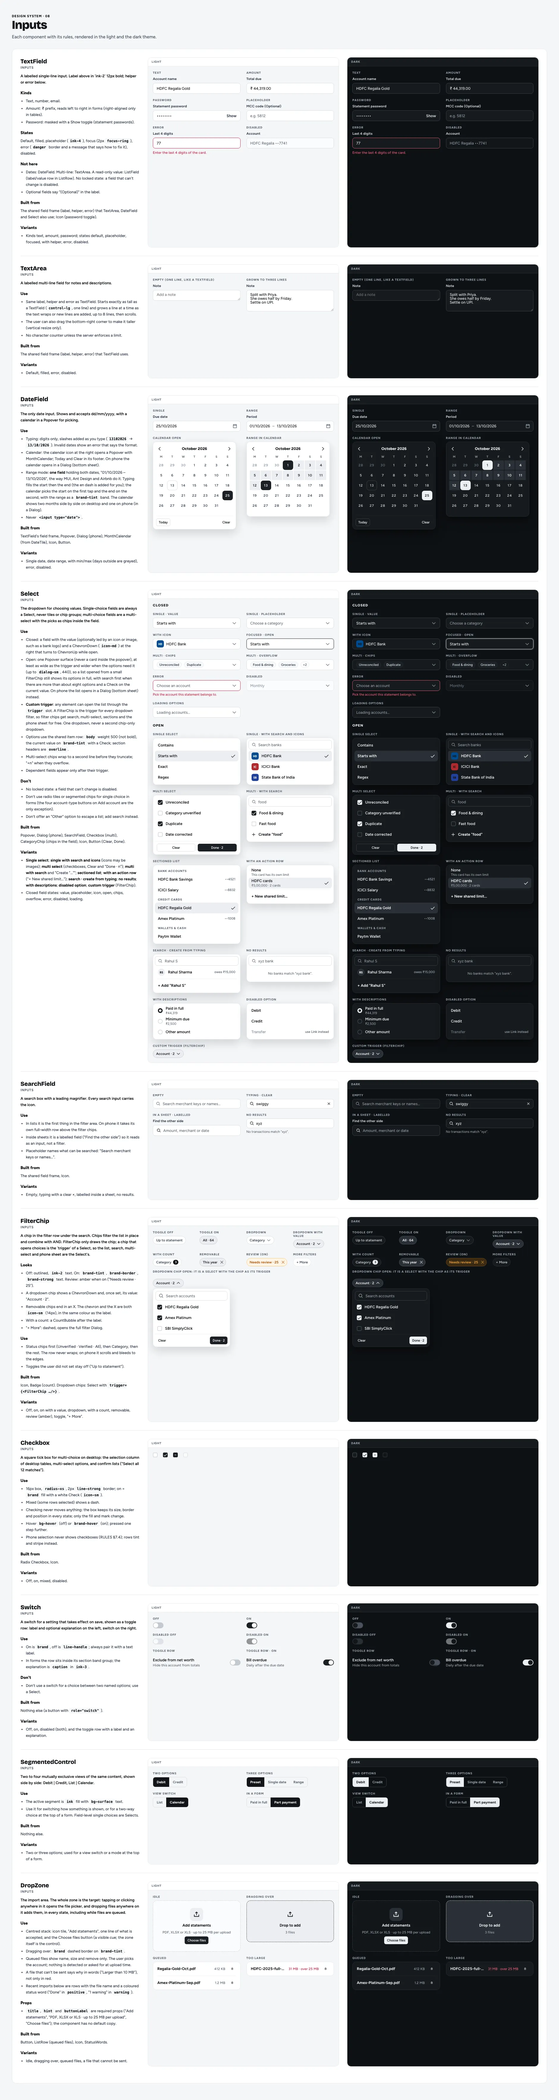
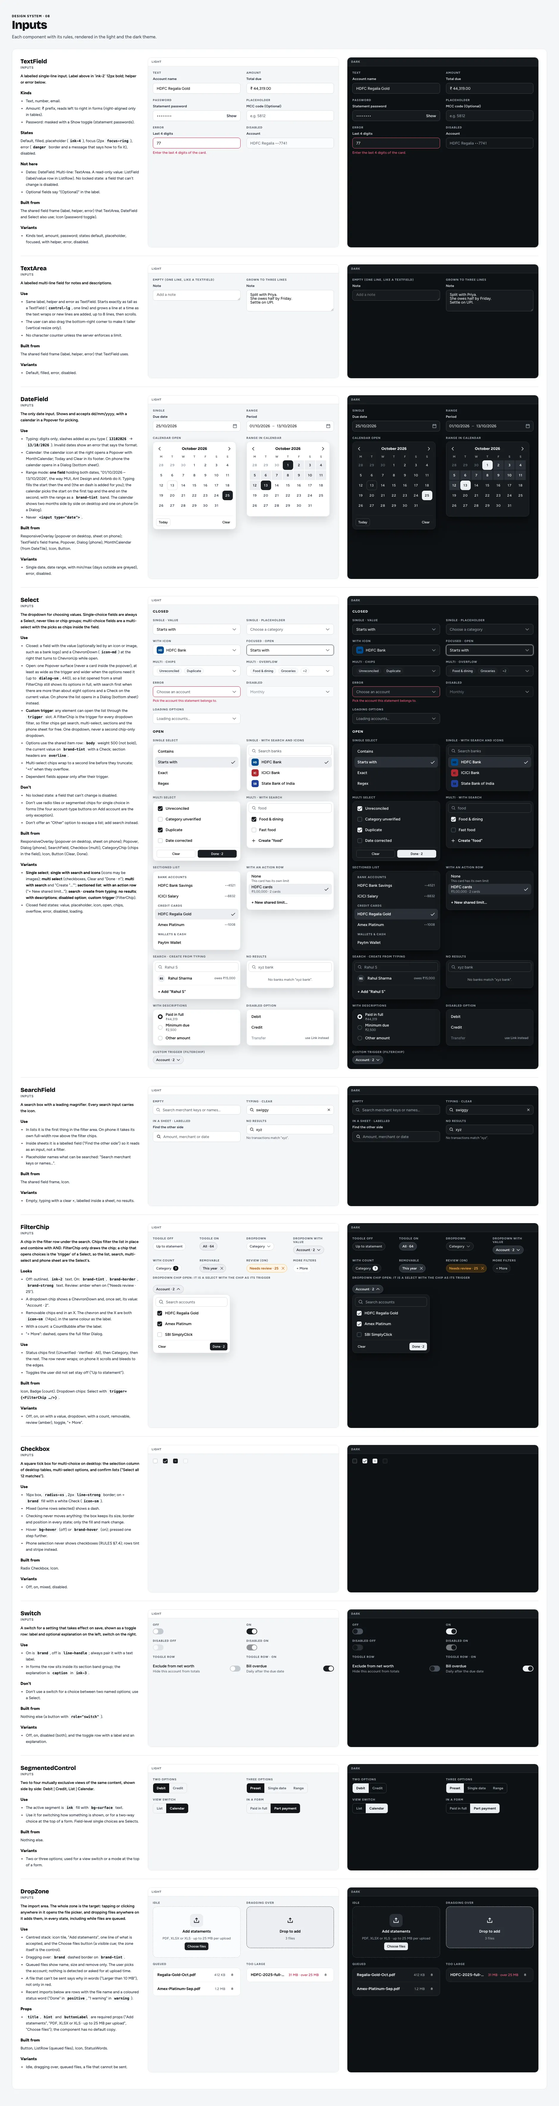
docs(ds): component standards — responsive by CSS at lg, Radix-style APIs; ResponsiveOverlay
RULES §5c: one structure per component with lg: breakpoint classes, no
viewport JavaScript except the shared ResponsiveOverlay (popover on desktop,
sheet on phone; renders only while open), no phone/desktop props, touch vs
mouse by pointer type; prop naming (variant/size/tone; value/onValueChange
etc.), events named for the component, one name per prop, composition.
check-ui: viewport-js and device-prop (22 hits in current code, for the
next AG round). Breakpoint added to the Phase 1 contract.

diff --git a/design-system/screens/ds-05-foundations.dc.html b/design-system/screens/ds-05-foundations.dc.html
@@ -424,7 +424,7 @@ table.t td{padding:9px 10px;border-bottom:1px solid var(--line-soft);vertical-al
 <li>Default (trigger width, grows with content).</li>
 </ul></div></div><div class="pvw th-light"><div class="pvl">Light</div><div class="fos" style="padding:16px;background:var(--bg-canvas);min-height:100%;display:flex;flex-direction:column;gap:12px;"><div class="pop-anchor" style="max-width:300px"><div class="sel-trig open">HDFC Regalia Gold <svg class="ic ic-md " viewBox="0 0 256 256" width="16" height="16" fill="currentColor" aria-hidden="true"><path d="M216.49,168.49a12,12,0,0,1-17,0L128,97,56.49,168.49a12,12,0,0,1-17-17l80-80a12,12,0,0,1,17,0l80,80A12,12,0,0,1,216.49,168.49Z"/></svg></div><div class="pop"><div class="mi on">HDFC Regalia Gold<span class="hint" style="color:var(--brand-strong)"><svg class="ic ic-md " viewBox="0 0 256 256" width="16" height="16" fill="currentColor" aria-hidden="true"><path d="M232.49,80.49l-128,128a12,12,0,0,1-17,0l-56-56a12,12,0,1,1,17-17L96,183,215.51,63.51a12,12,0,0,1,17,17Z"/></svg></span></div><div class="mi">Amex Platinum</div><div class="mi">SBI SimplyClick</div></div></div></div>
 </div><div class="pvw th-dark"><div class="pvl">Dark</div><div class="fos" style="padding:16px;background:var(--bg-canvas);min-height:100%;display:flex;flex-direction:column;gap:12px;"><div class="pop-anchor" style="max-width:300px"><div class="sel-trig open">HDFC Regalia Gold <svg class="ic ic-md " viewBox="0 0 256 256" width="16" height="16" fill="currentColor" aria-hidden="true"><path d="M216.49,168.49a12,12,0,0,1-17,0L128,97,56.49,168.49a12,12,0,0,1-17-17l80-80a12,12,0,0,1,17,0l80,80A12,12,0,0,1,216.49,168.49Z"/></svg></div><div class="pop"><div class="mi on">HDFC Regalia Gold<span class="hint" style="color:var(--brand-strong)"><svg class="ic ic-md " viewBox="0 0 256 256" width="16" height="16" fill="currentColor" aria-hidden="true"><path d="M232.49,80.49l-128,128a12,12,0,0,1-17,0l-56-56a12,12,0,1,1,17-17L96,183,215.51,63.51a12,12,0,0,1,17,17Z"/></svg></span></div><div class="mi">Amex Platinum</div><div class="mi">SBI SimplyClick</div></div></div></div>
-</div></div><div class="comp"><div><div class="cn">Dialog</div><div class="cg">Foundations and overlays</div><div class="md"><p style="color:var(--ink);font-weight:600">The one overlay for forms, details, pickers and confirmations. It replaces Sheet and ConfirmSheet: the same component is a centred modal on desktop and a bottom sheet on phone, chosen by the viewport. Pages never choose between them.</p><h3>Forms</h3>
+</div></div><div class="comp"><div><div class="cn">Dialog</div><div class="cg">Foundations and overlays</div><div class="md"><p style="color:var(--ink);font-weight:600">The one overlay for forms, details, pickers and confirmations. It replaces Sheet and ConfirmSheet: the same component is a centred modal on desktop and a bottom sheet on phone, chosen by CSS at the `lg` breakpoint. Pages never choose between them.</p><h3>Forms</h3>
 <ul>
 <li><b>Desktop modal</b>: centred, <code>radius-xl</code>, <code>shadow-dialog</code>, × at the top right, footer right-aligned on <code>bg-sunken</code>. Widths <code>dialog-sm</code> 440, <code>dialog-md</code> 640, <code>dialog-lg</code> 760, <code>dialog-xl</code> 920. Opens with a fade and a small scale (<code>dur-base</code>).</li>
 <li><b>Phone sheet</b>: full width, <code>radius-sheet</code> top corners, drag handle, no ×; swipe down or tap the scrim to close; slides up with <code>dur-sheet</code>. Footer pinned, buttons full width (<code>control-xl</code>), primary on the right.</li>
@@ -443,10 +443,27 @@ table.t td{padding:9px 10px;border-bottom:1px solid var(--line-soft);vertical-al
 
 </div><div class="pvw th-dark"><div class="pvl">Dark</div><div class="fos" style="padding:16px;background:var(--bg-canvas);min-height:100%;display:flex;flex-direction:column;gap:12px;"><div class="vgrid" style="grid-template-columns:repeat(2,minmax(0,1fr))"><div style="min-width:0"><div class="vlab">Desktop · sm · with tertiary</div><div class="dlg" style="max-width:440px"><div class="dh"><div style="flex:1"><div class="dt">Approve 9 transactions</div><div class="ds">Clears the reasons you tick.</div></div><button class="btn btn-i btn-g" aria-label="Close"><svg class="ic ic-md " viewBox="0 0 256 256" width="16" height="16" fill="currentColor" aria-hidden="true"><path d="M208.49,191.51a12,12,0,0,1-17,17L128,145,64.49,208.49a12,12,0,0,1-17-17L111,128,47.51,64.49a12,12,0,0,1,17-17L128,111l63.51-63.52a12,12,0,0,1,17,17L145,128Z"/></svg></button></div><div class="db"><div class="tog" style="border-top:0"><span>Unreconciled · 6</span><span class="mcb on"><svg class="ic ic-sm " viewBox="0 0 256 256" width="14" height="14" fill="currentColor" aria-hidden="true"><path d="M232.49,80.49l-128,128a12,12,0,0,1-17,0l-56-56a12,12,0,1,1,17-17L96,183,215.51,63.51a12,12,0,0,1,17,17Z"/></svg></span></div><div class="tog"><span>Duplicate · 3</span><span class="mcb on"><svg class="ic ic-sm " viewBox="0 0 256 256" width="14" height="14" fill="currentColor" aria-hidden="true"><path d="M232.49,80.49l-128,128a12,12,0,0,1-17,0l-56-56a12,12,0,1,1,17-17L96,183,215.51,63.51a12,12,0,0,1,17,17Z"/></svg></span></div></div><div class="df"><button class="btn btn-d" style="margin-right:auto">Delete 9</button><button class="btn">Cancel</button><button class="btn btn-p">Approve 9</button></div></div></div><div style="min-width:0"><div class="vlab">Phone sheet · same footer, tertiary left</div><div style="background:var(--scrim);padding-top:40px;max-width:390px"><div class="sheet"><div class="sheet-h" style="display:flex;justify-content:center;padding-top:8px"><span style="width:36px;height:4px;border-radius:999px;background:var(--line-handle)"></span></div><div class="dh"><div style="flex:1"><div class="dt">Edit rule</div><div class="ds">Swiggy · Food &amp; dining</div></div></div><div class="db"><div><label class="fl">Pattern</label><div class="inp">SWIGGY</div></div></div><div class="df"><button class="btn btn-d">Delete rule</button><button class="btn" style="flex:1">Cancel</button><button class="btn btn-p" style="flex:1">Save</button></div></div></div></div><div style="min-width:0"><div class="vlab">ConfirmDialog</div><div style="background:var(--scrim);padding:20px"><div class="dlg" style="max-width:440px"><div class="dh"><div style="flex:1"><div class="dt">Delete statement</div><div class="ds">Removes the Oct 2026 statement and what it added to this account.</div></div><button class="btn btn-i btn-g" aria-label="Close"><svg class="ic ic-md " viewBox="0 0 256 256" width="16" height="16" fill="currentColor" aria-hidden="true"><path d="M208.49,191.51a12,12,0,0,1-17,17L128,145,64.49,208.49a12,12,0,0,1-17-17L111,128,47.51,64.49a12,12,0,0,1,17-17L128,111l63.51-63.52a12,12,0,0,1,17,17L145,128Z"/></svg></button></div><div class="db"><ul style="margin:0;padding-left:var(--space-16);font-size:12px;line-height:1.6;color:var(--ink-2)"><li><b>6 transactions</b> it created will be deleted.</li><li>2 email alerts go back to review as unreconciled.</li></ul></div><div class="df"><button class="btn">Cancel</button><button class="btn btn-dd">Delete statement</button></div></div></div></div><div style="min-width:0"><div class="vlab">Phone sheet · picker</div><div style="background:var(--scrim);padding-top:40px;max-width:390px"><div class="sheet"><div class="dh"><div style="flex:1"><div class="dt">Bank</div></div></div><div class="db"><div class="search" style="margin-bottom:4px"><svg class="ic ic-md " viewBox="0 0 256 256" width="16" height="16" fill="currentColor" aria-hidden="true"><path d="M232.49,215.51,185,168a92.12,92.12,0,1,0-17,17l47.53,47.54a12,12,0,0,0,17-17ZM44,112a68,68,0,1,1,68,68A68.07,68.07,0,0,1,44,112Z"/></svg>Search banks</div><div class="mi on" style="padding:0"><span class="logo" style="background:#004c8f">HD</span>HDFC Bank<span class="hint" style="color:var(--brand-strong)"><svg class="ic ic-md " viewBox="0 0 256 256" width="16" height="16" fill="currentColor" aria-hidden="true"><path d="M232.49,80.49l-128,128a12,12,0,0,1-17,0l-56-56a12,12,0,1,1,17-17L96,183,215.51,63.51a12,12,0,0,1,17,17Z"/></svg></span></div><div class="mi" style="padding:0"><span class="logo" style="background:#b02a30">IC</span>ICICI Bank</div></div><div class="df"><button class="btn">Cancel</button></div></div></div></div></div></div>
 
+</div></div><div class="comp"><div><div class="cn">ResponsiveOverlay</div><div class="cg">Foundations and overlays</div><div class="md"><p style="color:var(--ink);font-weight:600">The one place the system switches between two different interaction primitives by screen size: a floating Popover from `lg` up, a bottom-sheet Dialog below it. Select, Menu and DateField open through it, so none of them detects the viewport themselves.</p><h3>Rules</h3>
+<ul>
+<li>It renders only while open, so the server never has to guess the width and nothing jumps.</li>
+<li>The content (option list, menu items, calendar) is written once and passed in; the overlay only decides the container.</li>
+<li>On phone the sheet takes a title (the field label) and the content's own footer (Clear, Done · n).</li>
+</ul>
+<h3>Props</h3>
+<p><code>open</code>, <code>defaultOpen</code>, <code>onOpenChange</code>, <code>trigger</code>, <code>title</code> (sheet title on phone), children.</p>
+<h3>Built from</h3>
+<p>Popover, Dialog, the one viewport hook in the system.</p>
+<h3>Variants</h3>
+<ul>
+<li>Desktop popover, phone sheet.</li>
+</ul></div></div><div class="pvw th-light"><div class="pvl">Light</div><div class="fos" style="padding:16px;background:var(--bg-canvas);min-height:100%;display:flex;flex-direction:column;gap:12px;"><div class="vgrid" style="grid-template-columns:repeat(2,minmax(0,1fr))"><div style="min-width:0"><div class="vlab">Desktop (lg and up)</div><div><div class="pop-anchor" style="max-width:300px"><div class="sel-trig open">HDFC Regalia Gold <svg class="ic ic-md " viewBox="0 0 256 256" width="16" height="16" fill="currentColor" aria-hidden="true"><path d="M216.49,168.49a12,12,0,0,1-17,0L128,97,56.49,168.49a12,12,0,0,1-17-17l80-80a12,12,0,0,1,17,0l80,80A12,12,0,0,1,216.49,168.49Z"/></svg></div><div class="pop"><div class="mi on">HDFC Regalia Gold<span class="hint" style="color:var(--brand-strong)"><svg class="ic ic-md " viewBox="0 0 256 256" width="16" height="16" fill="currentColor" aria-hidden="true"><path d="M232.49,80.49l-128,128a12,12,0,0,1-17,0l-56-56a12,12,0,1,1,17-17L96,183,215.51,63.51a12,12,0,0,1,17,17Z"/></svg></span></div><div class="mi">Amex Platinum</div><div class="mi">SBI SimplyClick</div></div></div></div>
+</div><div style="min-width:0"><div class="vlab">Phone</div><div style="background:var(--scrim);padding-top:40px;max-width:390px"><div class="sheet"><div class="dh"><div style="flex:1"><div class="dt">Bank</div></div></div><div class="db"><div class="search" style="margin-bottom:4px"><svg class="ic ic-md " viewBox="0 0 256 256" width="16" height="16" fill="currentColor" aria-hidden="true"><path d="M232.49,215.51,185,168a92.12,92.12,0,1,0-17,17l47.53,47.54a12,12,0,0,0,17-17ZM44,112a68,68,0,1,1,68,68A68.07,68.07,0,0,1,44,112Z"/></svg>Search banks</div><div class="mi on" style="padding:0"><span class="logo" style="background:#004c8f">HD</span>HDFC Bank<span class="hint" style="color:var(--brand-strong)"><svg class="ic ic-md " viewBox="0 0 256 256" width="16" height="16" fill="currentColor" aria-hidden="true"><path d="M232.49,80.49l-128,128a12,12,0,0,1-17,0l-56-56a12,12,0,1,1,17-17L96,183,215.51,63.51a12,12,0,0,1,17,17Z"/></svg></span></div><div class="mi" style="padding:0"><span class="logo" style="background:#b02a30">IC</span>ICICI Bank</div></div><div class="df"><button class="btn">Cancel</button></div></div></div></div></div></div></div>
+</div><div class="pvw th-dark"><div class="pvl">Dark</div><div class="fos" style="padding:16px;background:var(--bg-canvas);min-height:100%;display:flex;flex-direction:column;gap:12px;"><div class="vgrid" style="grid-template-columns:repeat(2,minmax(0,1fr))"><div style="min-width:0"><div class="vlab">Desktop (lg and up)</div><div><div class="pop-anchor" style="max-width:300px"><div class="sel-trig open">HDFC Regalia Gold <svg class="ic ic-md " viewBox="0 0 256 256" width="16" height="16" fill="currentColor" aria-hidden="true"><path d="M216.49,168.49a12,12,0,0,1-17,0L128,97,56.49,168.49a12,12,0,0,1-17-17l80-80a12,12,0,0,1,17,0l80,80A12,12,0,0,1,216.49,168.49Z"/></svg></div><div class="pop"><div class="mi on">HDFC Regalia Gold<span class="hint" style="color:var(--brand-strong)"><svg class="ic ic-md " viewBox="0 0 256 256" width="16" height="16" fill="currentColor" aria-hidden="true"><path d="M232.49,80.49l-128,128a12,12,0,0,1-17,0l-56-56a12,12,0,1,1,17-17L96,183,215.51,63.51a12,12,0,0,1,17,17Z"/></svg></span></div><div class="mi">Amex Platinum</div><div class="mi">SBI SimplyClick</div></div></div></div>
+</div><div style="min-width:0"><div class="vlab">Phone</div><div style="background:var(--scrim);padding-top:40px;max-width:390px"><div class="sheet"><div class="dh"><div style="flex:1"><div class="dt">Bank</div></div></div><div class="db"><div class="search" style="margin-bottom:4px"><svg class="ic ic-md " viewBox="0 0 256 256" width="16" height="16" fill="currentColor" aria-hidden="true"><path d="M232.49,215.51,185,168a92.12,92.12,0,1,0-17,17l47.53,47.54a12,12,0,0,0,17-17ZM44,112a68,68,0,1,1,68,68A68.07,68.07,0,0,1,44,112Z"/></svg>Search banks</div><div class="mi on" style="padding:0"><span class="logo" style="background:#004c8f">HD</span>HDFC Bank<span class="hint" style="color:var(--brand-strong)"><svg class="ic ic-md " viewBox="0 0 256 256" width="16" height="16" fill="currentColor" aria-hidden="true"><path d="M232.49,80.49l-128,128a12,12,0,0,1-17,0l-56-56a12,12,0,1,1,17-17L96,183,215.51,63.51a12,12,0,0,1,17,17Z"/></svg></span></div><div class="mi" style="padding:0"><span class="logo" style="background:#b02a30">IC</span>ICICI Bank</div></div><div class="df"><button class="btn">Cancel</button></div></div></div></div></div></div></div>
 </div></div></div></div></div>
 
 </x-dc>
-<script type="text/x-dc" data-dc-script data-props='{"$preview":{"width":1880,"height":3314}}'>
+<script type="text/x-dc" data-dc-script data-props='{"$preview":{"width":1880,"height":4299}}'>
 class Component extends DCLogic {
   renderVals() { return {}; }
 }

diff --git a/design-system/components/ResponsiveOverlay/preview.html b/design-system/components/ResponsiveOverlay/preview.html
@@ -1,0 +1,3 @@
+<!-- @dsCard group="Overlays" height=520 subtitle="popover from lg · sheet below" -->
+<div class="fos" style="padding:16px;background:var(--bg-canvas);min-height:100%;display:flex;flex-direction:column;gap:12px;"><div class="vgrid" style="grid-template-columns:repeat(2,minmax(0,1fr))"><div style="min-width:0"><div class="vlab">Desktop (lg and up)</div><div><div class="pop-anchor" style="max-width:300px"><div class="sel-trig open">HDFC Regalia Gold <svg class="ic ic-md " viewBox="0 0 256 256" width="16" height="16" fill="currentColor" aria-hidden="true"><path d="M216.49,168.49a12,12,0,0,1-17,0L128,97,56.49,168.49a12,12,0,0,1-17-17l80-80a12,12,0,0,1,17,0l80,80A12,12,0,0,1,216.49,168.49Z"/></svg></div><div class="pop"><div class="mi on">HDFC Regalia Gold<span class="hint" style="color:var(--brand-strong)"><svg class="ic ic-md " viewBox="0 0 256 256" width="16" height="16" fill="currentColor" aria-hidden="true"><path d="M232.49,80.49l-128,128a12,12,0,0,1-17,0l-56-56a12,12,0,1,1,17-17L96,183,215.51,63.51a12,12,0,0,1,17,17Z"/></svg></span></div><div class="mi">Amex Platinum</div><div class="mi">SBI SimplyClick</div></div></div></div>
+</div><div style="min-width:0"><div class="vlab">Phone</div><div style="background:var(--scrim);padding-top:40px;max-width:390px"><div class="sheet"><div class="dh"><div style="flex:1"><div class="dt">Bank</div></div></div><div class="db"><div class="search" style="margin-bottom:4px"><svg class="ic ic-md " viewBox="0 0 256 256" width="16" height="16" fill="currentColor" aria-hidden="true"><path d="M232.49,215.51,185,168a92.12,92.12,0,1,0-17,17l47.53,47.54a12,12,0,0,0,17-17ZM44,112a68,68,0,1,1,68,68A68.07,68.07,0,0,1,44,112Z"/></svg>Search banks</div><div class="mi on" style="padding:0"><span class="logo" style="background:#004c8f">HD</span>HDFC Bank<span class="hint" style="color:var(--brand-strong)"><svg class="ic ic-md " viewBox="0 0 256 256" width="16" height="16" fill="currentColor" aria-hidden="true"><path d="M232.49,80.49l-128,128a12,12,0,0,1-17,0l-56-56a12,12,0,1,1,17-17L96,183,215.51,63.51a12,12,0,0,1,17,17Z"/></svg></span></div><div class="mi" style="padding:0"><span class="logo" style="background:#b02a30">IC</span>ICICI Bank</div></div><div class="df"><button class="btn">Cancel</button></div></div></div></div></div></div></div>

diff --git a/design-system/screens/ds-06-navigation.dc.html b/design-system/screens/ds-06-navigation.dc.html
@@ -377,7 +377,7 @@ table.t td{padding:9px 10px;border-bottom:1px solid var(--line-soft);vertical-al
 </style>
 </helmet>
 
-<div class="th-light"><div class="dsb"><div><div class="ds-k">Design system · 06</div><h1 class="ds-h">Navigation</h1><p class="ds-lead">Each component with its rules, rendered in the light and the dark theme.</p></div><div class="ds-sec"><div class="comp"><div><div class="cn">TopBar</div><div class="cg">Navigation</div><div class="md"><p style="color:var(--ink);font-weight:600">The bar at the top of every screen: one component, two forms chosen by the viewport (like Dialog). On phone it is the TopBar; on desktop it is the page bar above the content. Pages never choose.</p><h3>Forms</h3>
+<div class="th-light"><div class="dsb"><div><div class="ds-k">Design system · 06</div><h1 class="ds-h">Navigation</h1><p class="ds-lead">Each component with its rules, rendered in the light and the dark theme.</p></div><div class="ds-sec"><div class="comp"><div><div class="cn">TopBar</div><div class="cg">Navigation</div><div class="md"><p style="color:var(--ink);font-weight:600">The bar at the top of every screen: one component, two forms chosen by CSS at the `lg` breakpoint (like Dialog). On phone it is the TopBar; on desktop it is the page bar above the content. Pages never choose.</p><h3>Forms</h3>
 <ul>
 <li><b>Phone</b> (56px, <code>app-bar</code>): the Logo mark, or a back arrow on detail screens (<code>back</code>), then crumb and title (title truncates, never wraps), then the actions as bordered <code>control-md</code> icon buttons. Phone pages never repeat the title in the body.</li>
 <li><b>Desktop</b> (56px, <code>bg-surface</code>, <code>line</code> bottom border): crumb and title on the left, the actions on the right; an action with a label shows it ("Add" with its ⌘N hint).</li>
@@ -481,7 +481,7 @@ table.t td{padding:9px 10px;border-bottom:1px solid var(--line-soft);vertical-al
 </div></div></div></div></div>
 
 </x-dc>
-<script type="text/x-dc" data-dc-script data-props='{"$preview":{"width":1880,"height":3943}}'>
+<script type="text/x-dc" data-dc-script data-props='{"$preview":{"width":1880,"height":3964}}'>
 class Component extends DCLogic {
   renderVals() { return {}; }
 }

diff --git a/design-system/screens/ds-08-inputs.dc.html b/design-system/screens/ds-08-inputs.dc.html
@@ -422,7 +422,7 @@ Settle on UPI.</textarea></div></div></div></div>
 <li>Never <code>&lt;input type="date"&gt;</code>.</li>
 </ul>
 <h3>Built from</h3>
-<p>TextField's field frame, Popover, Dialog (phone), MonthCalendar (from DateTile), Icon, Button.</p>
+<p>ResponsiveOverlay (popover on desktop, sheet on phone); TextField's field frame, Popover, Dialog (phone), MonthCalendar (from DateTile), Icon, Button.</p>
 <h3>Variants</h3>
 <ul>
 <li>Single date, date range, with min/max (days outside are greyed), error, disabled.</li>
@@ -446,7 +446,7 @@ Settle on UPI.</textarea></div></div></div></div>
 <li>Don't offer an "Other" option to escape a list; add search instead.</li>
 </ul>
 <h3>Built from</h3>
-<p>Popover, Dialog (phone), SearchField, Checkbox (multi), CategoryChip (chips in the field), Icon, Button (Clear, Done).</p>
+<p>ResponsiveOverlay (popover on desktop, sheet on phone); Popover, Dialog (phone), SearchField, Checkbox (multi), CategoryChip (chips in the field), Icon, Button (Clear, Done).</p>
 <h3>Variants</h3>
 <ul>
 <li><b>Single select</b>; <b>single with search and icons</b> (icons may be images); <b>multi select</b> (checkboxes, Clear and "Done · n"); <b>multi with search</b> and "Create "…""; <b>sectioned list</b>; <b>with an action row</b> ("+ New shared limit…"); <b>search · create from typing</b>; <b>no results</b>; <b>with descriptions</b>; <b>disabled option</b>; <b>custom trigger</b> (FilterChip).</li>
@@ -551,7 +551,7 @@ Settle on UPI.</textarea></div></div></div></div>
 </div></div></div></div></div>
 
 </x-dc>
-<script type="text/x-dc" data-dc-script data-props='{"$preview":{"width":1880,"height":7061}}'>
+<script type="text/x-dc" data-dc-script data-props='{"$preview":{"width":1880,"height":7082}}'>
 class Component extends DCLogic {
   renderVals() { return {}; }
 }

diff --git a/design-system/screens/ds-07-actions.dc.html b/design-system/screens/ds-07-actions.dc.html
@@ -450,7 +450,7 @@ table.t td{padding:9px 10px;border-bottom:1px solid var(--line-soft);vertical-al
 <li>Don't put a single action in a menu; show it as a button.</li>
 </ul>
 <h3>Built from</h3>
-<p>Popover (Radix DropdownMenu), the shared item row, Icon, Dialog (phone, long menus).</p>
+<p>ResponsiveOverlay (popover on desktop, sheet on phone); Popover (Radix DropdownMenu), the shared item row, Icon, Dialog (phone, long menus).</p>
 <h3>Variants</h3>
 <ul>
 <li>Actions; with icons and hints (icons only when every item has one); snooze presets with "Pick a date…"; disabled item with its reason; sectioned; switcher with a footer link.</li>
@@ -504,7 +504,7 @@ table.t td{padding:9px 10px;border-bottom:1px solid var(--line-soft);vertical-al
 </div></div></div></div></div>
 
 </x-dc>
-<script type="text/x-dc" data-dc-script data-props='{"$preview":{"width":1880,"height":5040}}'>
+<script type="text/x-dc" data-dc-script data-props='{"$preview":{"width":1880,"height":5061}}'>
 class Component extends DCLogic {
   renderVals() { return {}; }
 }

diff --git a/design-system/RULES.md b/design-system/RULES.md
@@ -89,6 +89,52 @@ If a design is ambiguous, missing a state, contradicts the code, or cannot be bu
 7. **Every state is visible.** Interactive components show hover, pressed (different from hover), keyboard focus, disabled and, where it applies, loading and selected, using the state tokens (`bg-hover`, `bg-pressed`, `brand-hover`, `brand-pressed`, `danger-hover`, `danger-pressed`). Nothing moves or changes size between states.
 8. **Server or client, on purpose.** A component that uses state, effects, refs, event handlers, Radix, Sonner or browser APIs starts with `'use client'`. A purely presentational component (Badge, Card, ListRow without handlers, SectionHeader, Banner, Skeleton…) has no directive and no hooks, so a Server Component page can render it with no client JavaScript. Never put `'use client'` in `index.ts`.
 
+## 5c. Component standards (every component, no exceptions)
+
+These are the rules a mature design system (Radix, Material, Polaris, Atlassian) follows. A component that breaks one is not done.
+
+**Responsive**
+1. **One component, one structure, one code path.** Phone and desktop are the same markup; what differs (size, position, what shows) is written with Tailwind breakpoint classes, mobile first. Never two render functions, never `renderPhone` / `renderDesktop`, never a `variant="phone" | "desktop"` prop. The page never chooses a form.
+2. **One switch: `lg` (1024px).** Below it is the phone form, from it the desktop form. Components use only `lg:` for that switch (no `sm:`, `md:`, `xl:` inside components).
+3. **No viewport detection in JavaScript** (`useMediaQuery`, `useIsPhone`, `matchMedia`, `innerWidth`). The server can't know the width, so it renders the wrong form and the page jumps. The one exception is **ResponsiveOverlay**, the single shared piece that opens a floating Popover on desktop and a bottom-sheet Dialog on phone (Select, Menu, DateField). It renders only while open, so it never causes a server/client mismatch. Nothing else may use these hooks.
+4. **Touch vs mouse is not phone vs desktop.** Long-press responds to touch input (`pointerType === 'touch'`) on any screen. The desktop checkbox column is shown with `hidden lg:flex`, not by a hook.
+
+**API**
+5. **Prop names mean one thing everywhere:**
+   - `variant` = visual style (`primary`, `secondary`…);
+   - `size` = `sm` | `md` | `lg`;
+   - `tone` = semantic colour (`neutral`, `success`, `warning`, `danger`, `info`).
+
+   No `kind`, `status`, `type`, `appearance` or `intent` for these.
+6. **State props follow Radix:**
+   - `value` / `defaultValue` / `onValueChange`;
+   - `checked` / `defaultChecked` / `onCheckedChange`;
+   - `open` / `defaultOpen` / `onOpenChange`;
+   - `selected` / `onSelectedChange`.
+
+   Every stateful component works both controlled and uncontrolled. Never `onChange` for a value, never `isOpen`.
+7. **Events are named for what the user did to the component**, not what the app does with it: `onSelect`, `onTrigger`, `onRemove`, `onOpenDetail`. Never `onApprove`, `onEditRule`, `onSetCategory`. Actions the app defines arrive as data (`actions={[{ id, label, icon, onSelect }]}`).
+8. **One name per prop.** No aliases, no "legacy" or "backwards compatible" props.
+9. **Composition:**
+   - polymorphism through `asChild`;
+   - compound parts as `Name.Part` (`Dialog.Footer`, `Card.Header`);
+   - content through slots (`trigger`, `actions`, `footer`);
+   - every component forwards its ref, spreads native props, and takes `className` for layout only.
+10. **Content comes from props** (§5b.6). **States are visible** (§5b.7). **Server or client on purpose** (§5b.8).
+
+**Proof**
+11. Each README lists **Props** (with the names above), **Variants** and **Built from**. Stories are args-driven and interactive (§5a). Tests cover behaviour.
+12. `check-ui.mjs` enforces what can be checked mechanically:
+    - viewport hooks outside ResponsiveOverlay;
+    - `phone` / `desktop` variant props;
+    - old imports;
+    - unknown classes;
+    - typed glyphs;
+    - hand-made buttons;
+    - hard-coded routes.
+
+    The rest is reviewed in code before the owner sees it.
+
 ## 5a. Storybook
 
 1. Each component gets one story per variant in its README, named exactly as the README names it, plus an **All variants** story that shows them side by side for review. **All variants** is the first story, so it opens by default. Story titles are `DS/<Group>/<Name>`, using the README's group (Foundations, Navigation, Actions, Inputs, Data display, Feedback, Overlays). There is no Screens group: pages are not components.

diff --git a/design-system/PROGRESS.md b/design-system/PROGRESS.md
@@ -8,7 +8,7 @@ Read `design-system/RULES.md` first. This file is the shared state between sessi
 | --- | --- | --- |
 | 0 | Set-up: design system, screens, rules and check script in the repo | Done |
 | 1 | Foundations: tokens, Tailwind names, fonts, Storybook | Done |
-| 2 | New component library in Storybook, one component at a time, owner-reviewed | In progress (43 components; owner feedback round 2 open) |
+| 2 | New component library in Storybook, one component at a time, owner-reviewed | In progress (44 components; owner feedback round 2 open) |
 | 3 | Pages: rebuild and swap in one page or big component at a time | Not started |
 | 4 | Cleanup: delete old components once nothing uses them | Not started |
 
@@ -36,6 +36,7 @@ Goal: everything the new components need, with **no visible change to the existi
    - `width` and `minWidth` also take `popover-trigger` and `menu-trigger` (the trigger width Radix exposes) for Popover `match` and Menu minimum width.
    - There is no `space-0`, `space-18`, `text-small`, `rounded-ds-circle`, `z-1` or `font-inherit`. Tailwind silently drops a class name it does not know, so it renders nothing; `check-ui.mjs` now fails on unknown classes.
    - `zIndex`: `z-sticky`, `z-dock`, `z-scrim`, `z-overlay`.
+   - Breakpoint: `lg` (1024px, Tailwind's default) is the only phone→desktop switch inside components (RULES §5c.2).
    - `transitionDuration`: `fast`, `base`, `sheet`.
 3. **Fonts.** Add Figtree (500, 600, 700, 800) and Bricolage Grotesque (600, 700, 800) as self-hosted woff2 files, loaded with `next/font/local` into `--ds-font-text` and `--ds-font-display`. Inter stays in place for the old UI.
 4. **Storybook** (approved as a new dev dependency, see Owner decisions):
@@ -96,6 +97,7 @@ Build in this order, one component per step. After each one, set its status to *
 | 41 | Logo | Ready for review |
 | 42 | Divider | Ready for review |
 | 43 | Illustration | Changes requested |
+| 44 | ResponsiveOverlay | Not started |
 
 Removed on 2026-10-15 (merged, see Owner decisions): AppBar → TopBar (one bar, phone and desktop forms); Callout and its Note → Banner; Sheet and ConfirmSheet → Dialog and its ConfirmDialog preset; DateGroupHeader and SectionBand → SectionHeader; AuthPanel → a page in Phase 3.
 
@@ -202,6 +204,7 @@ Only the owner adds to this list. Each entry has a date and the decision.
   - AppBar and TopBar are one TopBar.
   - Components carry no app content (RULES §5b.6).
   - Every story is interactive.
+- 2026-10-15 · **Responsive and API standards** (RULES §5c): one structure per component with CSS breakpoints at `lg`; no viewport JavaScript except the shared ResponsiveOverlay; no phone/desktop props; Radix-style prop names; events named for the component, not the app.
 - 2026-10-15 · Accessibility is out of scope: no ARIA, screen-reader or contrast work. The Storybook accessibility addon stays installed but is not a check.
 
 ## Open questions

diff --git a/design-system/components/Select/README.md b/design-system/components/Select/README.md
@@ -16,7 +16,7 @@ The dropdown for choosing values. Single-choice fields are always a Select, neve
 - Don't offer an "Other" option to escape a list; add search instead.
 
 ## Built from
-Popover, Dialog (phone), SearchField, Checkbox (multi), CategoryChip (chips in the field), Icon, Button (Clear, Done).
+ResponsiveOverlay (popover on desktop, sheet on phone); Popover, Dialog (phone), SearchField, Checkbox (multi), CategoryChip (chips in the field), Icon, Button (Clear, Done).
 
 ## Variants
 - **Single select**; **single with search and icons** (icons may be images); **multi select** (checkboxes, Clear and "Done · n"); **multi with search** and "Create "…""; **sectioned list**; **with an action row** ("+ New shared limit…"); **search · create from typing**; **no results**; **with descriptions**; **disabled option**; **custom trigger** (FilterChip).

diff --git a/design-system/components/ResponsiveOverlay/README.md b/design-system/components/ResponsiveOverlay/README.md
@@ -1,0 +1,17 @@
+# ResponsiveOverlay
+
+The one place the system switches between two different interaction primitives by screen size: a floating Popover from `lg` up, a bottom-sheet Dialog below it. Select, Menu and DateField open through it, so none of them detects the viewport themselves.
+
+## Rules
+- It renders only while open, so the server never has to guess the width and nothing jumps.
+- The content (option list, menu items, calendar) is written once and passed in; the overlay only decides the container.
+- On phone the sheet takes a title (the field label) and the content's own footer (Clear, Done · n).
+
+## Props
+`open`, `defaultOpen`, `onOpenChange`, `trigger`, `title` (sheet title on phone), children.
+
+## Built from
+Popover, Dialog, the one viewport hook in the system.
+
+## Variants
+- Desktop popover, phone sheet.

diff --git a/design-system/components/Dialog/README.md b/design-system/components/Dialog/README.md
@@ -1,6 +1,6 @@
 # Dialog
 
-The one overlay for forms, details, pickers and confirmations. It replaces Sheet and ConfirmSheet: the same component is a centred modal on desktop and a bottom sheet on phone, chosen by the viewport. Pages never choose between them.
+The one overlay for forms, details, pickers and confirmations. It replaces Sheet and ConfirmSheet: the same component is a centred modal on desktop and a bottom sheet on phone, chosen by CSS at the `lg` breakpoint. Pages never choose between them.
 
 ## Forms
 - **Desktop modal**: centred, `radius-xl`, `shadow-dialog`, × at the top right, footer right-aligned on `bg-sunken`. Widths `dialog-sm` 440, `dialog-md` 640, `dialog-lg` 760, `dialog-xl` 920. Opens with a fade and a small scale (`dur-base`).

diff --git a/design-system/components/TopBar/README.md b/design-system/components/TopBar/README.md
@@ -1,6 +1,6 @@
 # TopBar
 
-The bar at the top of every screen: one component, two forms chosen by the viewport (like Dialog). On phone it is the TopBar; on desktop it is the page bar above the content. Pages never choose.
+The bar at the top of every screen: one component, two forms chosen by CSS at the `lg` breakpoint (like Dialog). On phone it is the TopBar; on desktop it is the page bar above the content. Pages never choose.
 
 ## Forms
 - **Phone** (56px, `app-bar`): the Logo mark, or a back arrow on detail screens (`back`), then crumb and title (title truncates, never wraps), then the actions as bordered `control-md` icon buttons. Phone pages never repeat the title in the body.

diff --git a/design-system/components/Menu/README.md b/design-system/components/Menu/README.md
@@ -16,7 +16,7 @@ Both open the same Popover with the same item rows, so they look identical. They
 - Don't put a single action in a menu; show it as a button.
 
 ## Built from
-Popover (Radix DropdownMenu), the shared item row, Icon, Dialog (phone, long menus).
+ResponsiveOverlay (popover on desktop, sheet on phone); Popover (Radix DropdownMenu), the shared item row, Icon, Dialog (phone, long menus).
 
 ## Variants
 - Actions; with icons and hints (icons only when every item has one); snooze presets with "Pick a date…"; disabled item with its reason; sectioned; switcher with a footer link.
